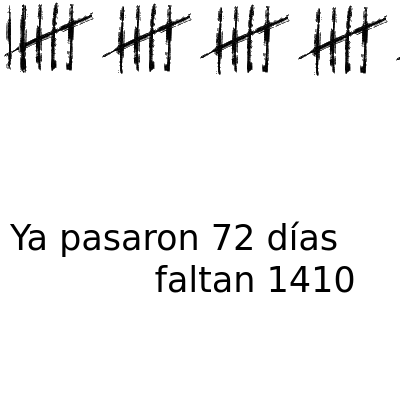
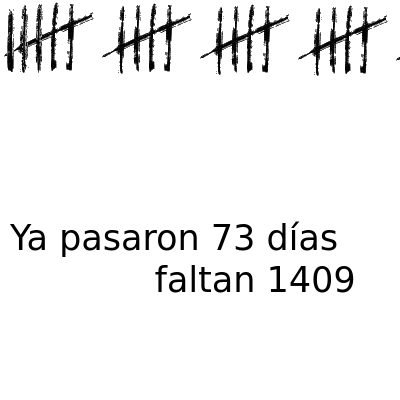
deploy: 28882f26f23b9f53dac6c4991168e610486d0e44

Changed region(s): [[0.0, 0.0, 0.12, 0.18], [0.78, 0.66, 0.9, 0.75], [0.57, 0.57, 0.63, 0.63]]

diff --git a/index.html b/index.html
@@ -3,19 +3,19 @@
   <head>
     <meta charset='utf-8'>
     <meta http-equiv='X-UA-Compatible' content='IE=edge'>
-    <title>Ya pasaron 72 días y faltan 1410</title>
-    <meta name="description" content="Ya pasaron 72 días y faltan 1410">
-    <meta itemprop="name" content="Ya pasaron 72 días y faltan 1410">
-    <meta itemprop="description" content="Ya pasaron 72 días y faltan 1410">
+    <title>Ya pasaron 73 días y faltan 1409</title>
+    <meta name="description" content="Ya pasaron 73 días y faltan 1409">
+    <meta itemprop="name" content="Ya pasaron 73 días y faltan 1409">
+    <meta itemprop="description" content="Ya pasaron 73 días y faltan 1409">
     <meta name="twitter:card" content="summary">
-    <meta name="twitter:title" content="Ya pasaron 72 días y faltan 1410">
-    <meta name="twitter:description" content="Ya pasaron 72 días y faltan 1410">
+    <meta name="twitter:title" content="Ya pasaron 73 días y faltan 1409">
+    <meta name="twitter:description" content="Ya pasaron 73 días y faltan 1409">
     <meta name="twitter:creator" content="@FloriusWasTaken">
     <meta name="twitter:image" content="https://pasaron.meme.ar/capture.png">
-    <meta property="og:title" content="Ya pasaron 72 días y faltan 1410">
-    <meta property="og:description" content="Ya pasaron 72 días y faltan 1410">
+    <meta property="og:title" content="Ya pasaron 73 días y faltan 1409">
+    <meta property="og:description" content="Ya pasaron 73 días y faltan 1409">
     <meta property="og:url" content="https://pasaron.meme.ar">
-    <meta property="og:site_name" content="Ya pasaron 72 días y faltan 1410">
+    <meta property="og:site_name" content="Ya pasaron 73 días y faltan 1409">
     <meta property="og:type" content="website">
     <meta property="og:image" content="https://pasaron.meme.ar/capture.png">
     <meta name="theme-color" content="#dc143c">
@@ -69,18 +69,18 @@
         padding: 0;
       }
     </style>
-    <title>Ya pasaron 72 días y faltan 1410</title>
+    <title>Ya pasaron 73 días y faltan 1409</title>
   </head>
   <body>
     <div id="main">
       <img src="img/5.png"/><img src="img/5.png"/><img src="img/5.png"/><img src="img/5.png"/><img src="img/5.png"/><img src="img/5.png"/><img src="img/5.png"/><img src="img/5.png"/><img src="img/5.png"/><img src="img/5.png"/><img src="img/5.png"/><img src="img/5.png"/><img src="img/5.png"/><img src="img/5.png"/>
       
-        <img src="img/2.png"/>
+        <img src="img/3.png"/>
       
     </div>
     <footer id="footer">
       <marquee id="marquee" class="is-vertical-align">
-        Ya pasaron 72 días y faltan 1410
+        Ya pasaron 73 días y faltan 1409
       </marquee>
       <ul>
         <li>
